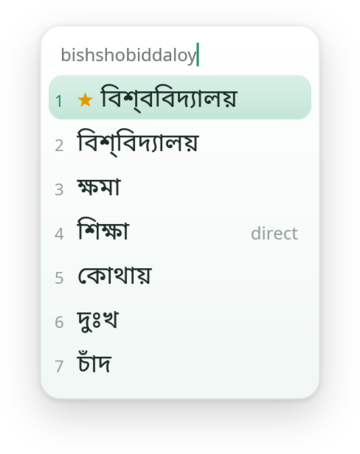
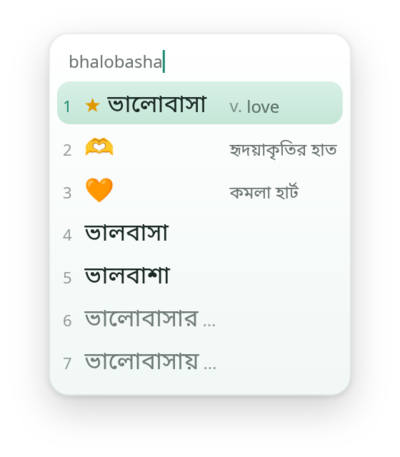
docs(render): theme pictures that show what the engine really offers
- a showcase frame for bhalobasha: a learned word with its gloss, emoji with their names, spellings and completions
- the previews write it, and the five theme pictures of the user guide are drawn from it
- they replace pictures that carried a made-up 'direct' label

diff --git a/crates/borno-render/src/sample.rs b/crates/borno-render/src/sample.rs
@@ -19,6 +19,31 @@ pub fn bangl() -> Frame {
     }
 }
 
+/// What typing `bhalobasha` shows: a word chosen before with its gloss, emoji with their names, other spellings and
+/// completions. The picture of the themes on the website and in the docs.
+pub fn showcase() -> Frame {
+    Frame {
+        preedit: Some(Preedit::plain("bhalobasha", 10)),
+        rows: vec![
+            row(
+                0,
+                "ভালোবাসা",
+                Source::Learned,
+                &[("v. ", Tone::Pos), ("love", Tone::Gloss)],
+            ),
+            row(1, "🫶", Source::Typed, &[("হৃদয়াকৃতির হাত", Tone::Gloss)]),
+            row(2, "🧡", Source::Typed, &[("কমলা হার্ট", Tone::Gloss)]),
+            row(3, "ভালবাসা", Source::Typed, &[]),
+            row(4, "ভালবাশা", Source::Typed, &[]),
+            row(5, "ভালোবাসার", Source::Completion, &[]),
+            row(6, "ভালোবাসায়", Source::Completion, &[]),
+        ],
+        highlighted: Some(0),
+        hint: None,
+        mode: Mode::default(),
+    }
+}
+
 /// A word with a learned choice, conjuncts and a spelling variant, to check shaping.
 pub fn shaping() -> Frame {
     Frame {

diff --git a/crates/borno-render/src/preview/mod.rs b/crates/borno-render/src/preview/mod.rs
@@ -8,7 +8,7 @@ use std::path::{Path, PathBuf};
 pub use error::{PreviewError, ShotError};
 pub use shot::Shot;
 
-use crate::sample::{bangl, next_words, shaping};
+use crate::sample::{bangl, next_words, shaping, showcase};
 use crate::{FontLibrary, Frame, Layout, Renderer, Theme};
 
 /// Twice the point size, as sharp as a HiDPI screenshot.
@@ -34,6 +34,7 @@ pub fn write_previews(
         ("vertical.png", shaping(), Layout::Vertical, false),
         ("completion.png", bangl(), Layout::Vertical, false),
         ("next-words.png", next_words(), Layout::Vertical, false),
+        ("showcase.png", showcase(), Layout::Vertical, false),
     ];
     if theme.locked_dark().is_none() {
         shots.push(("vertical-dark.png", shaping(), Layout::Vertical, true));
